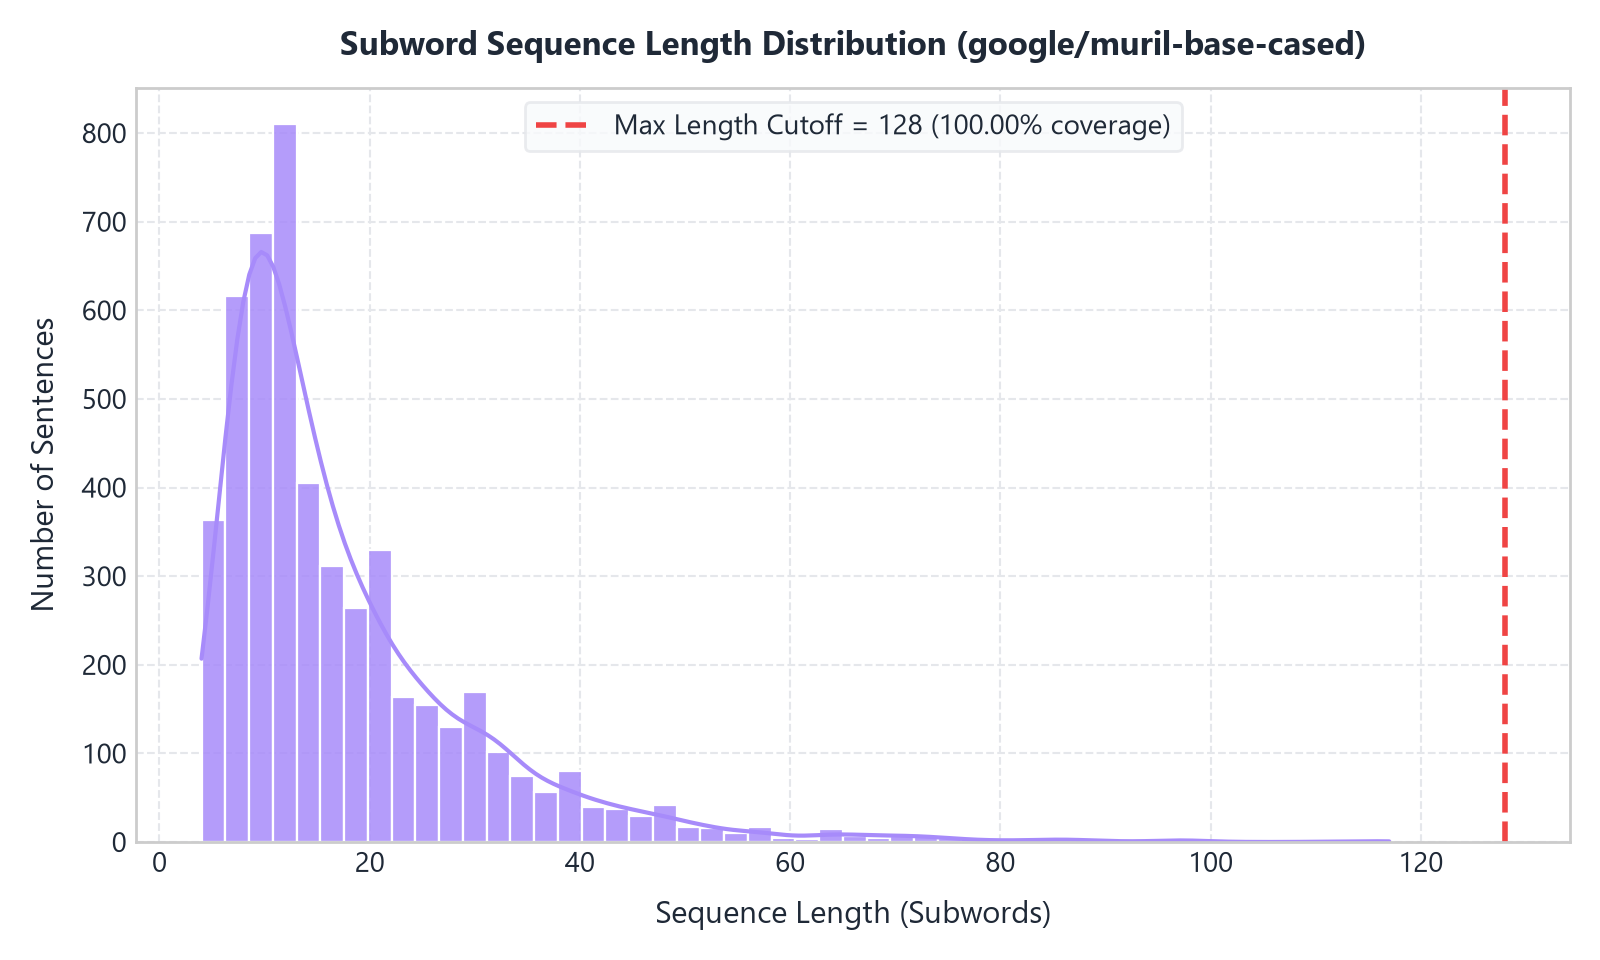
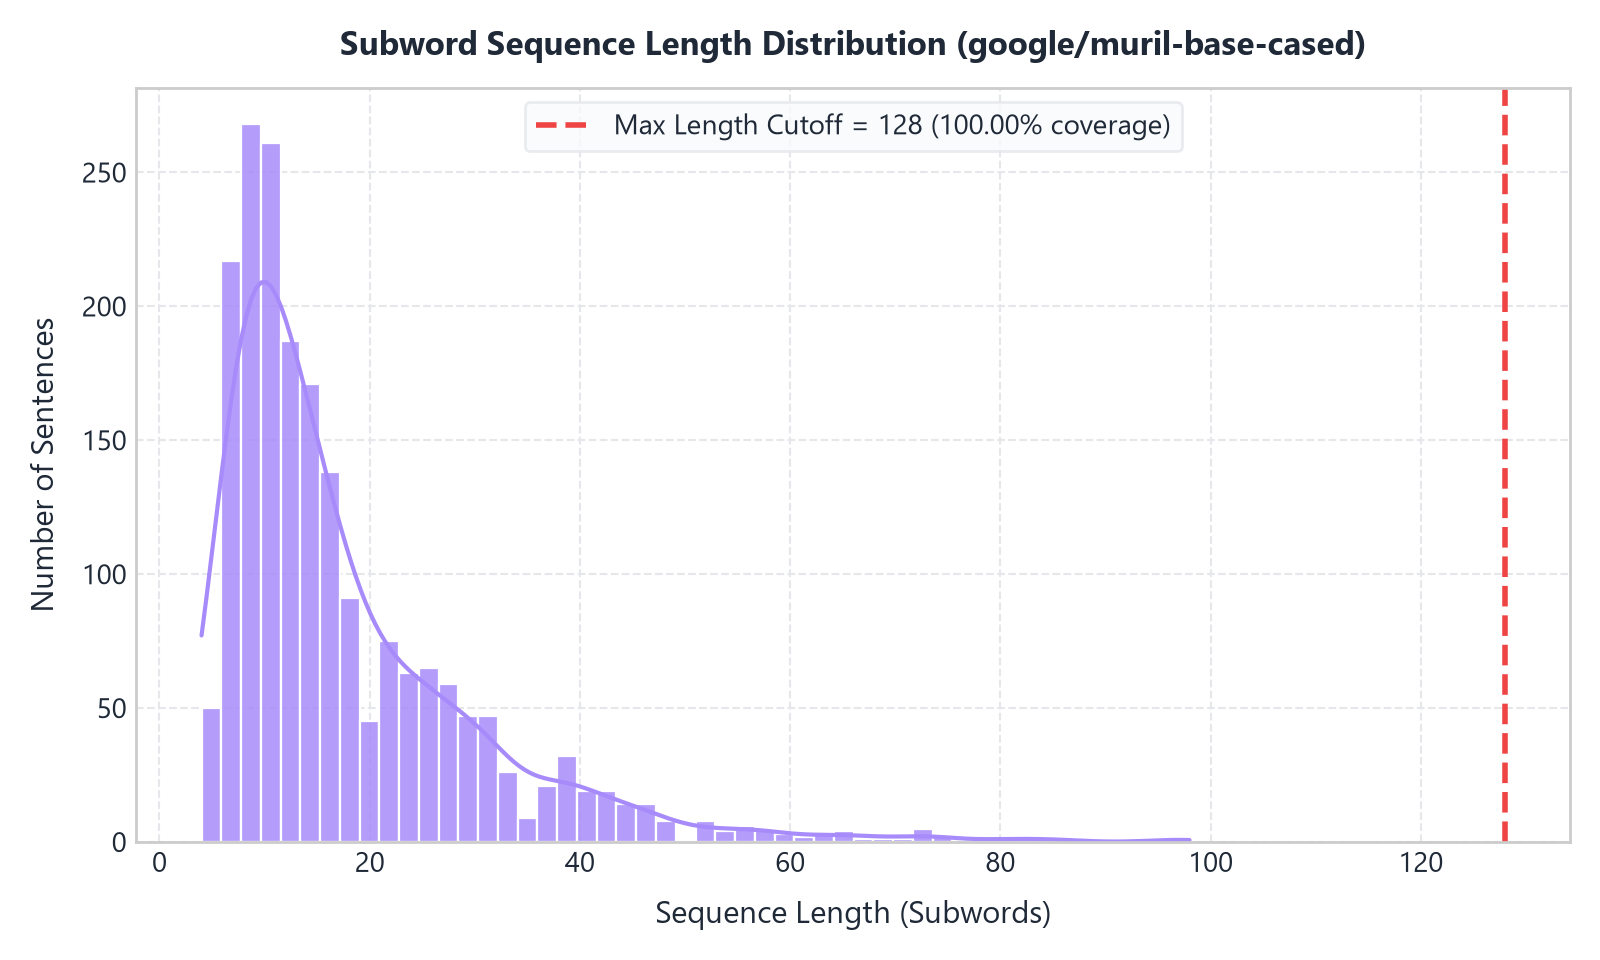
fix: use modern FastAPI lifespan handler in app.py

diff --git a/project/app.py b/project/app.py
@@ -28,6 +28,8 @@ from src.labels import ID2LABEL, LABEL2ID, get_id2label
 from src.predict import predict_text
 from src.utils import find_project_root, get_device, resolve_path
 
+from contextlib import asynccontextmanager
+
 # Configure logging
 logging.basicConfig(
     level=logging.INFO,
@@ -41,11 +43,18 @@ STATIC_DIR = PROJ_ROOT / "static"
 OUTPUTS_DIR = PROJ_ROOT / "outputs"
 CHECKPOINT_DIR = OUTPUTS_DIR / "checkpoints" / "best_model"
 
+@asynccontextmanager
+async def lifespan(app: FastAPI):
+    """Lifespan context manager to load models on startup."""
+    load_model_and_tokenizer()
+    yield
+
 # Initialize FastAPI
 app = FastAPI(
     title="IndicNER API",
     description="Cross-Lingual Named Entity Recognition for Kannada & Telugu with MuRIL",
     version="2.0.0",
+    lifespan=lifespan,
 )
 
 # Enable CORS for flexible integration
@@ -91,11 +100,6 @@ def load_model_and_tokenizer():
     MODEL.to(DEVICE)
     MODEL.eval()
     logger.info(f"Model successfully loaded onto {DEVICE}.")
-
-
-@app.on_event("startup")
-async def startup_event():
-    load_model_and_tokenizer()
 
 
 # Request / Response Schemas
